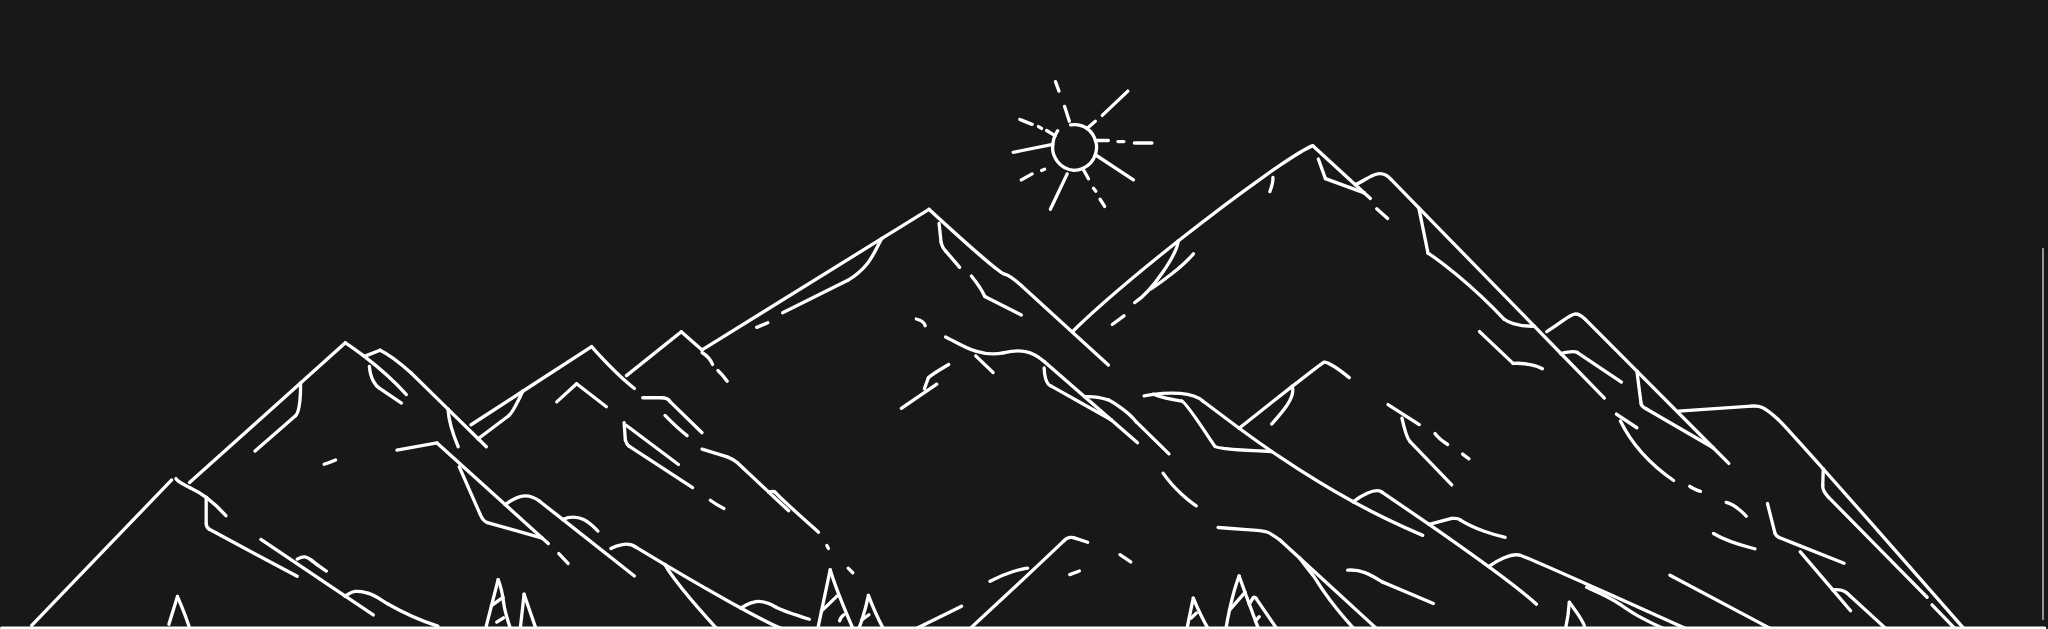
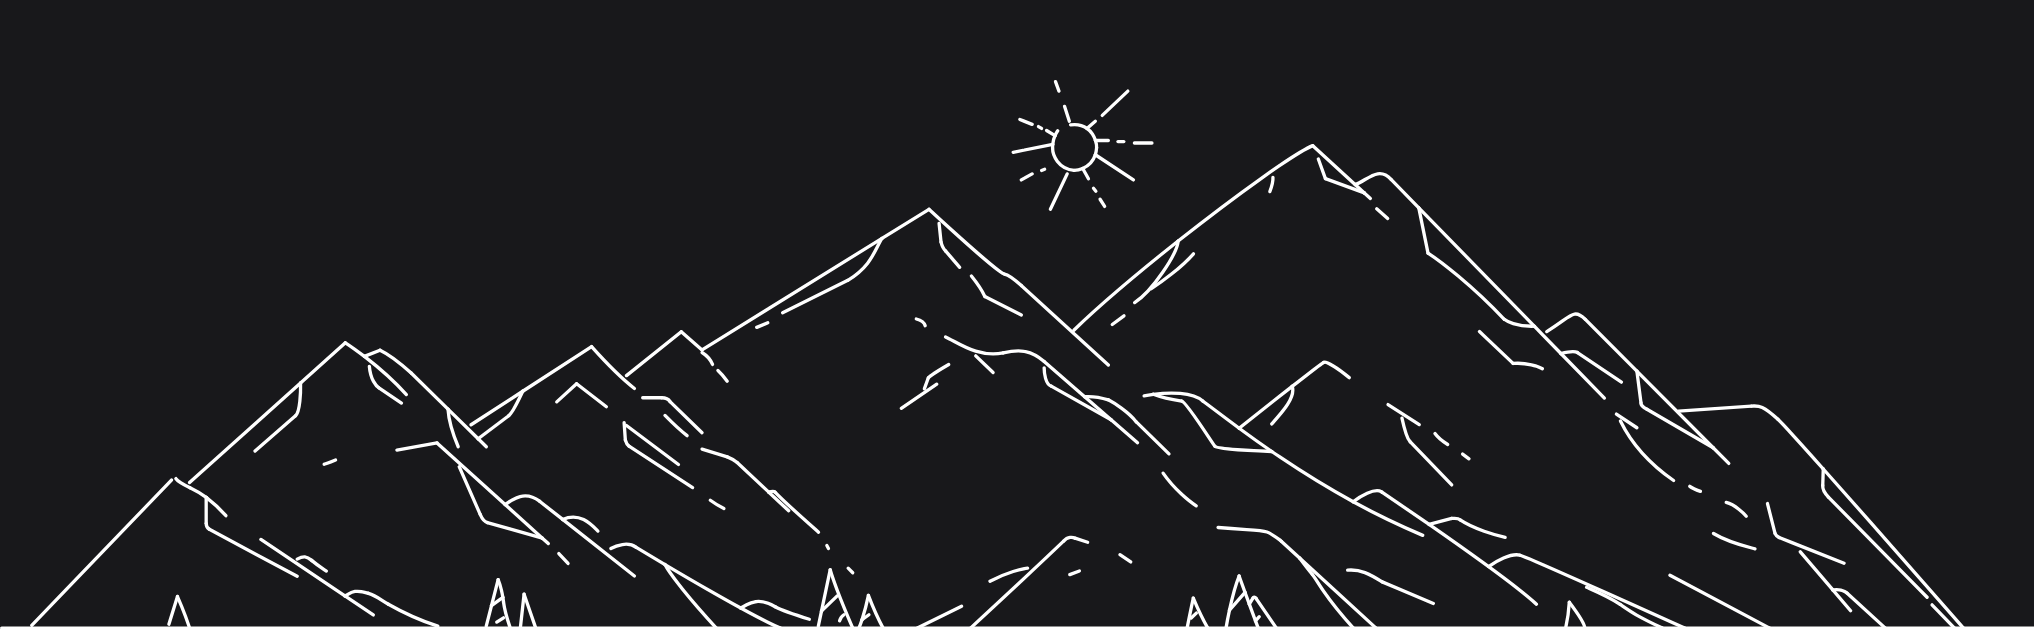
Change width of opengraph image

diff --git a/src/app/layout.tsx b/src/app/layout.tsx
@@ -34,7 +34,7 @@ export const metadata: Metadata = {
         images: [
             {
                 url: 'https://vuktacic.com/og.png', // Must be an absolute URL
-                width: 2048,
+                width: 2034,
                 height: 629,
             },
         ],
